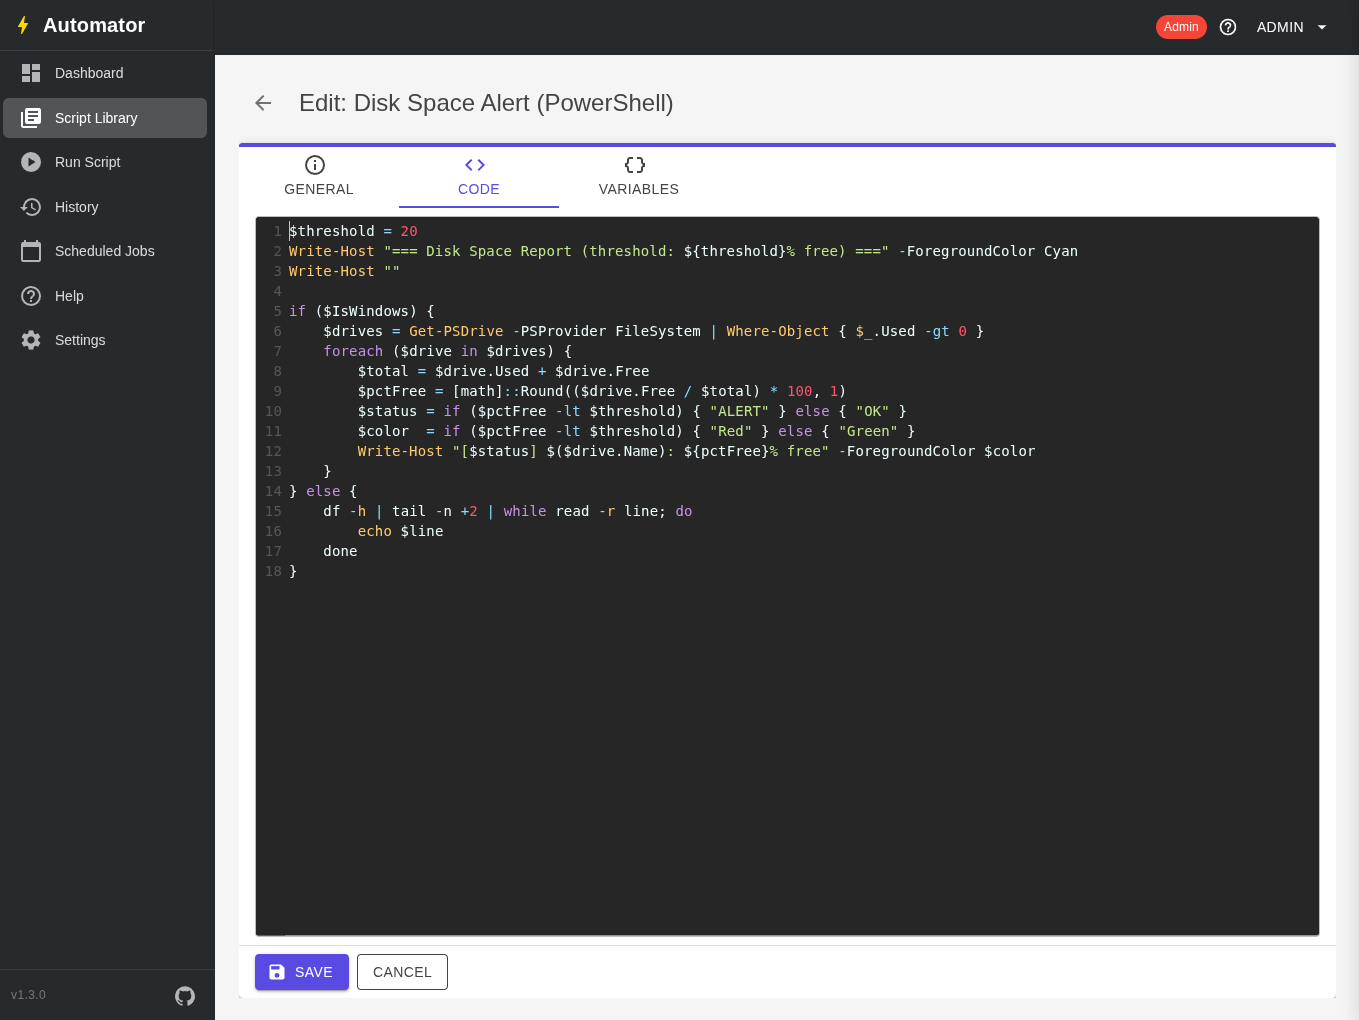
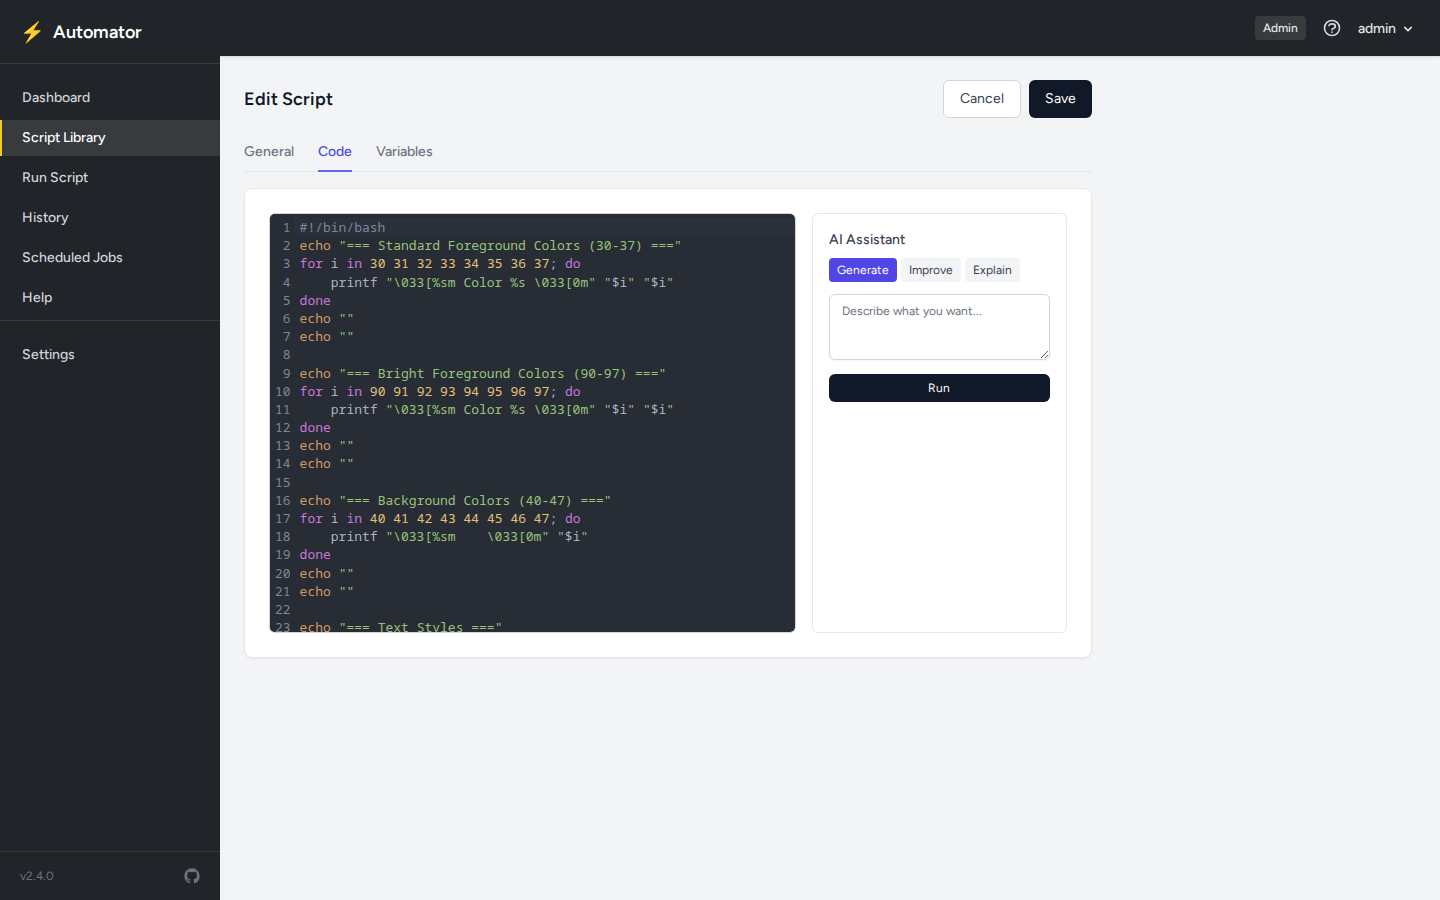
Add current screenshots to README
The previous screenshots (dashboard, scheduled-jobs, script-editor,
settings-ai) were captured against the old .NET Blazor Server UI before
the Laravel rewrite and had gone stale with no Screenshots section
left referencing them. Replaces them with fresh captures of the
current app and adds Script Library, Run Script, History, and
Settings > Runners to round out the tour.

diff --git a/README.md b/README.md
@@ -2,6 +2,19 @@
 
 A web application for managing and automating IaaS scripts. Built with Laravel, Livewire, and Reverb, it runs on any Linux distribution with PHP 8.3+.
 
+## Screenshots
+
+| | |
+|---|---|
+| **Dashboard** — execution stats, 14-day activity chart, language breakdown | **Script Library** — searchable, taggable script catalog |
+| ![Dashboard](docs/screenshots/dashboard.png) | ![Script Library](docs/screenshots/script-library.png) |
+| **Script Editor** — CodeMirror with syntax highlighting and an AI assistant panel | **Run Script** — live output streaming with real ANSI color rendering |
+| ![Script Editor](docs/screenshots/script-editor.png) | ![Run Script](docs/screenshots/run-script.png) |
+| **History** — every run, its runner, duration, and exit code | **Scheduled Jobs** — cron-based scheduling pinned to a specific runner |
+| ![History](docs/screenshots/history.png) | ![Scheduled Jobs](docs/screenshots/scheduled-jobs.png) |
+| **Settings → Runners** — fleet health, per-language support, and self-update | |
+| ![Settings - Runners](docs/screenshots/settings-runners.png) | |
+
 ## Features
 
 - **Script Library** — store, organize, and search Bash, PowerShell, Python, Ansible, and Terraform scripts